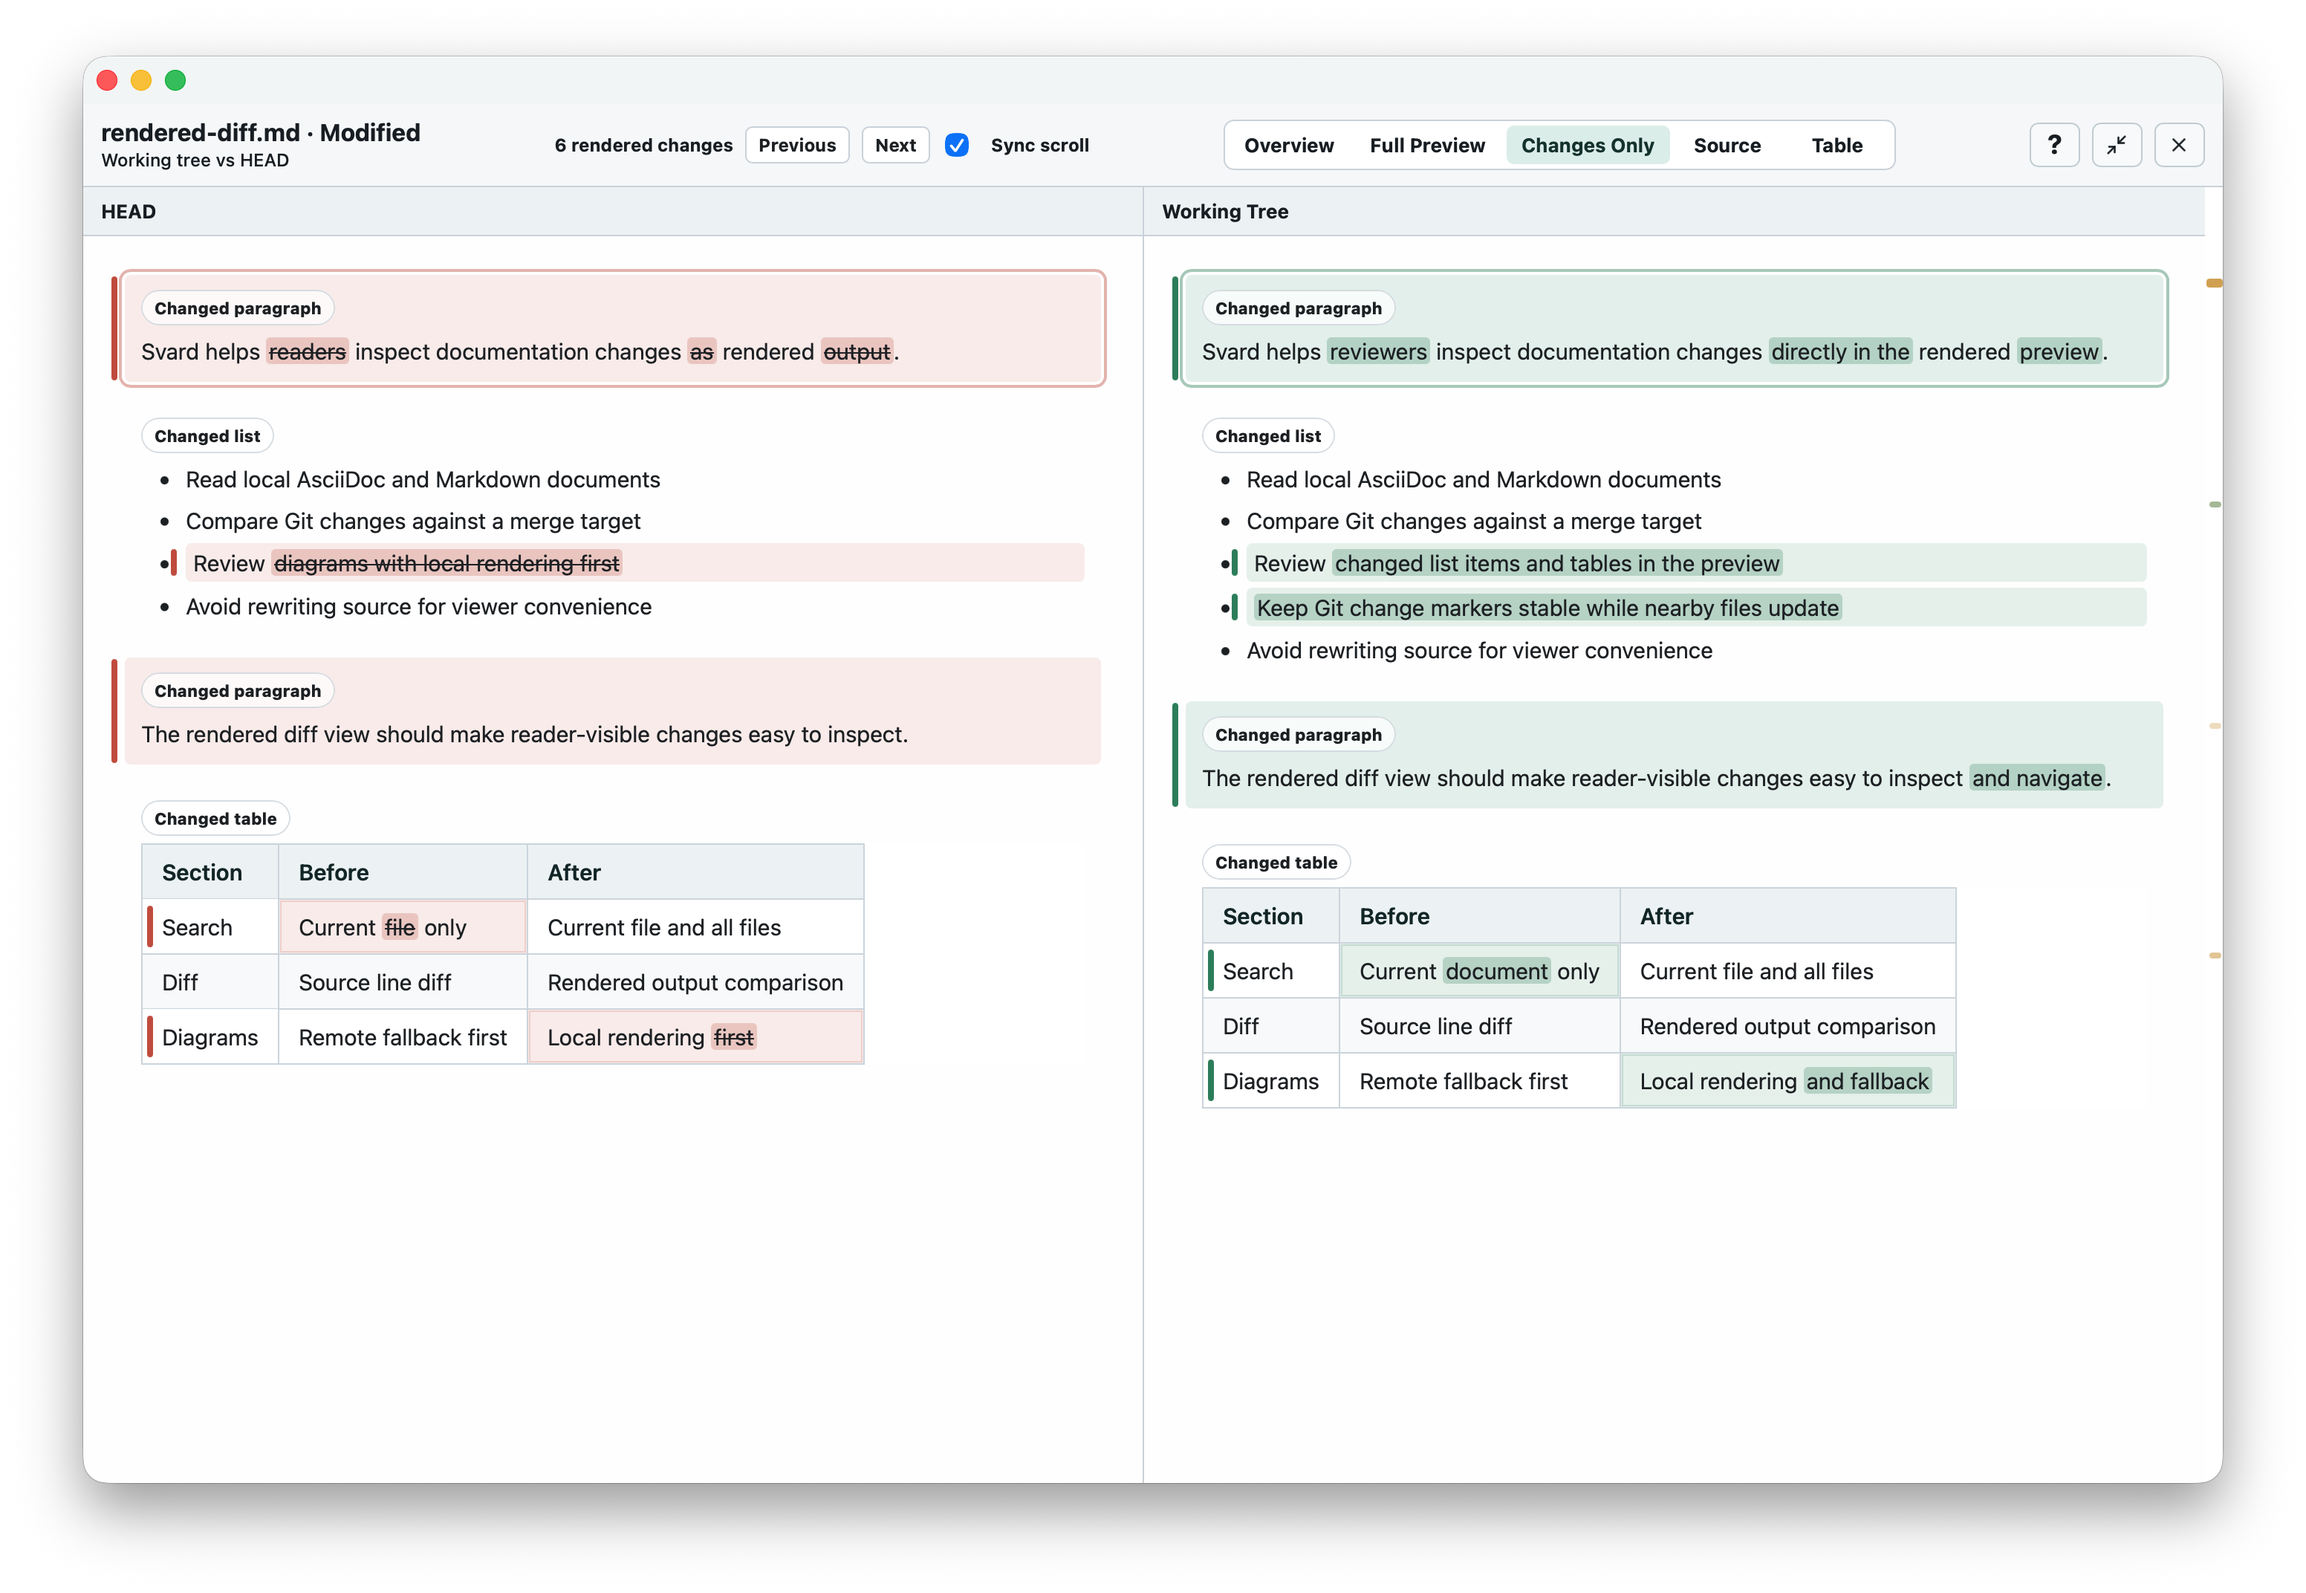
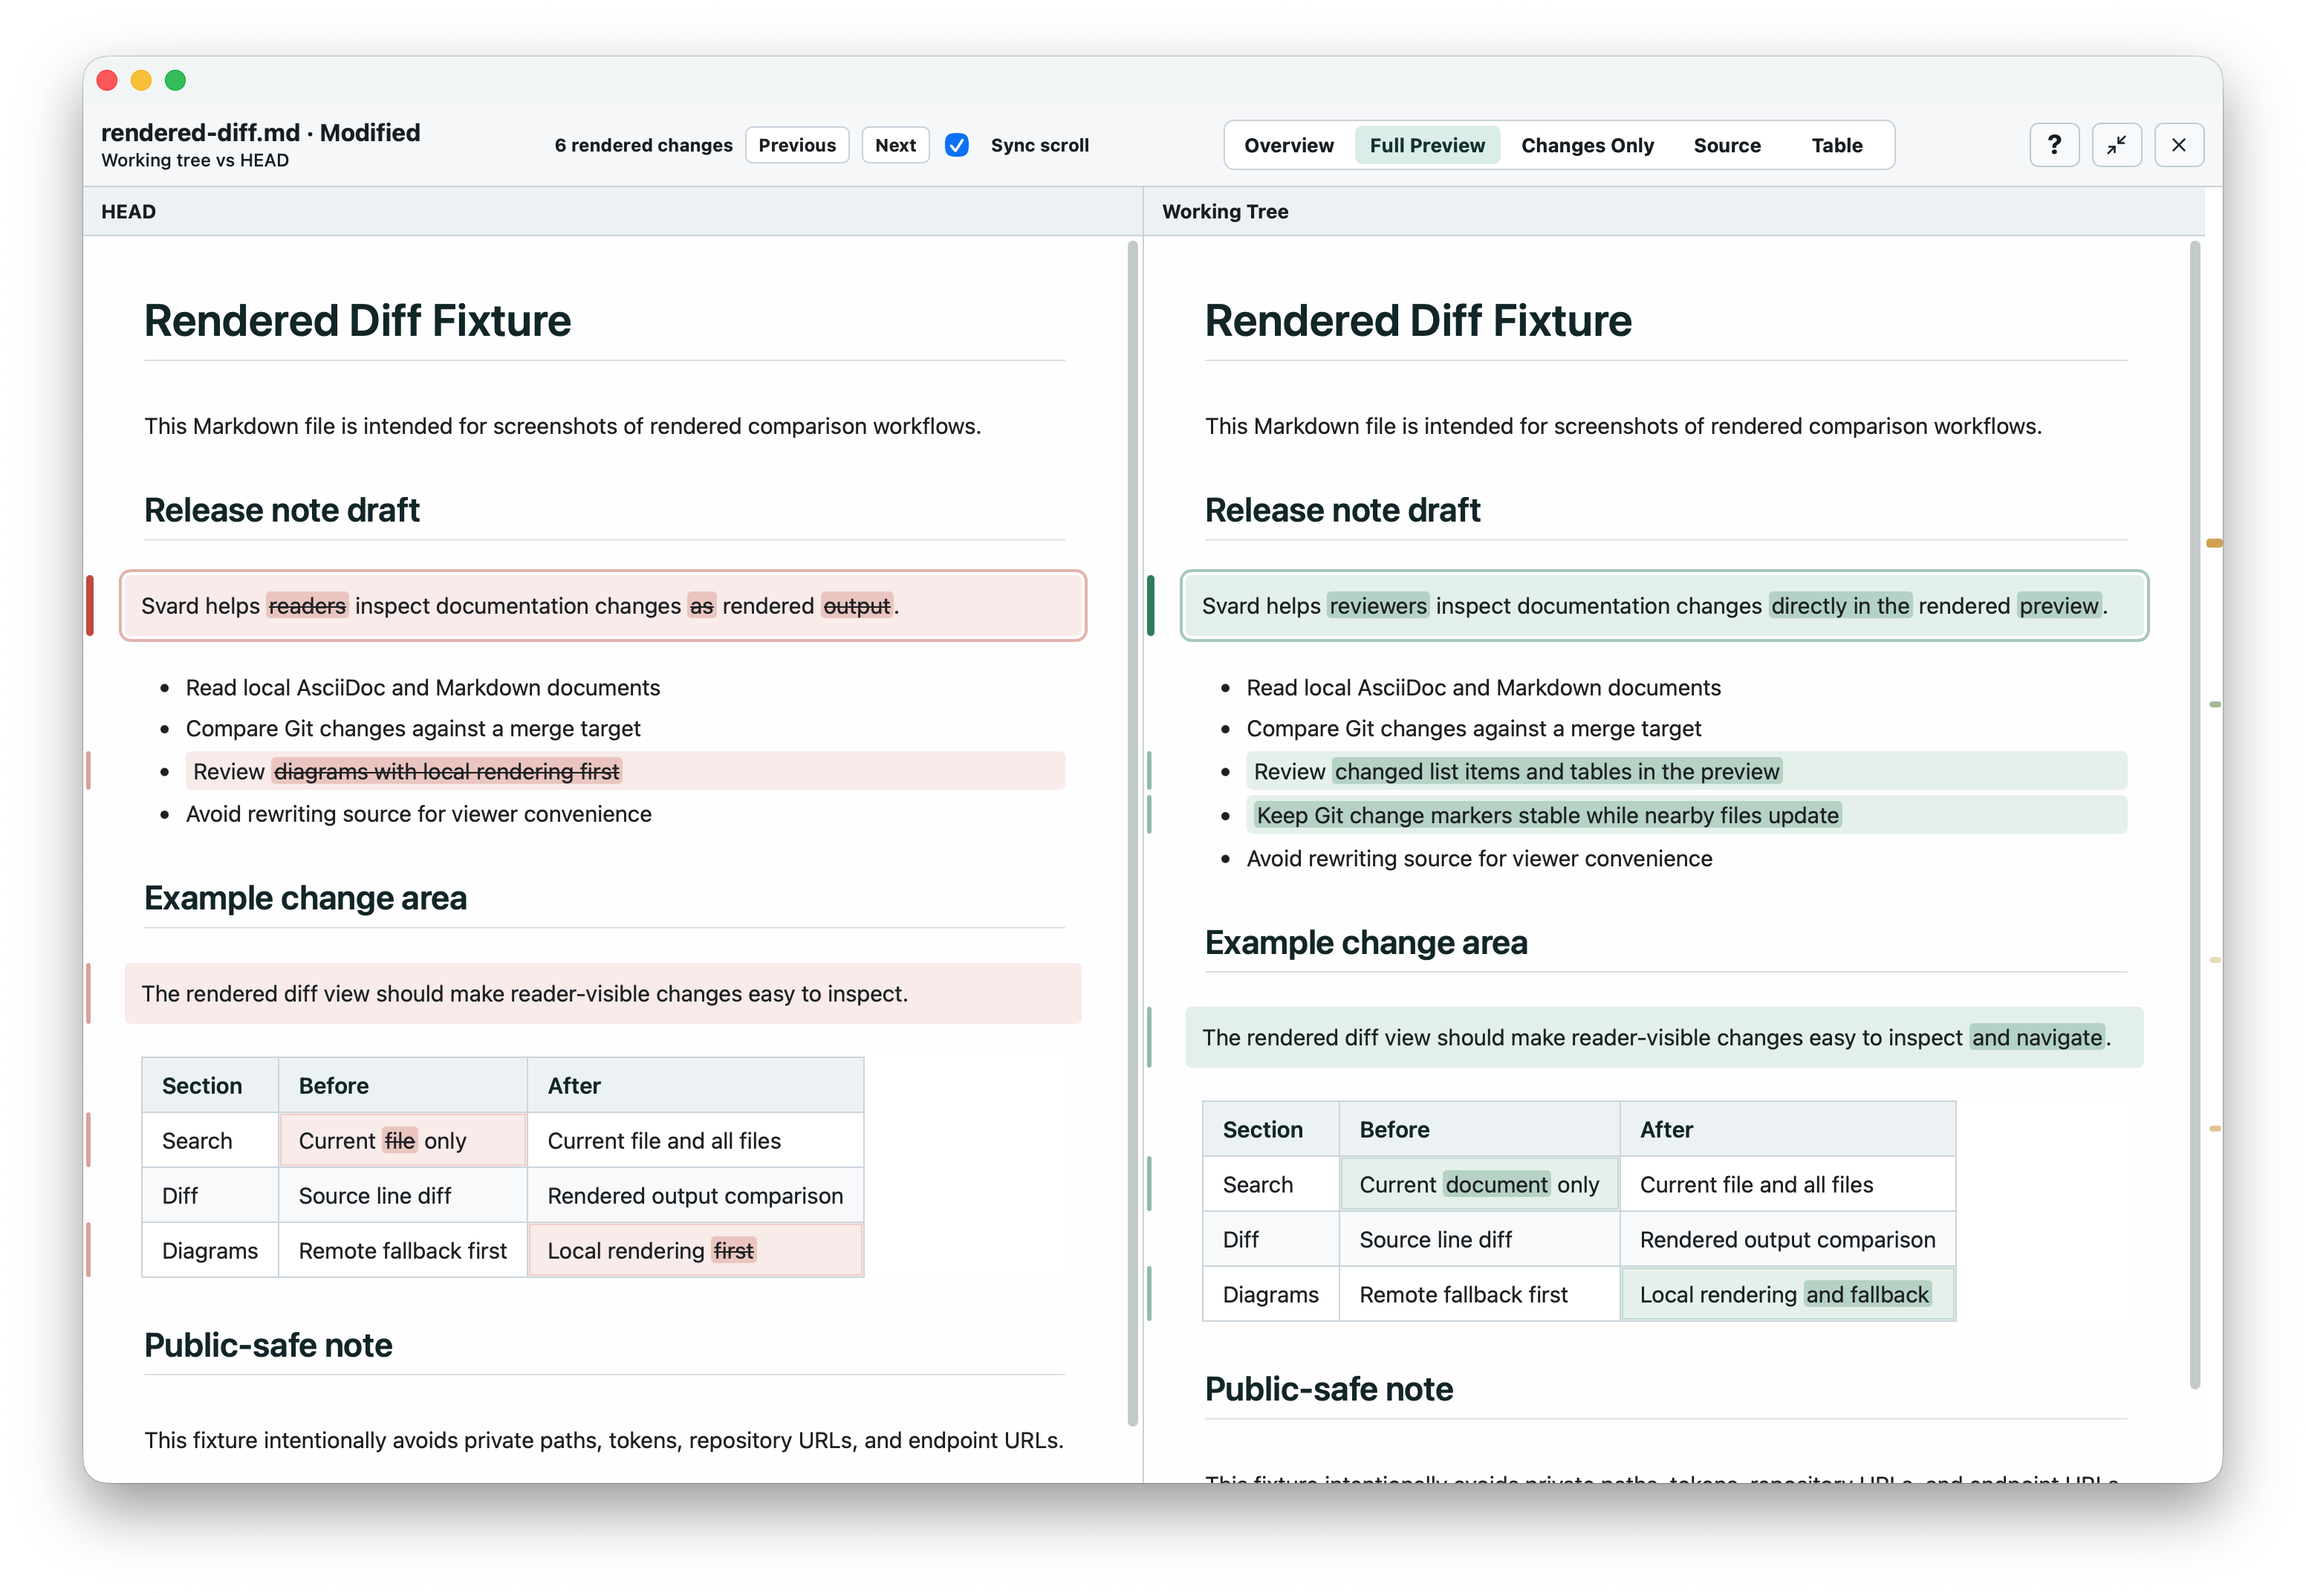
docs(site): show Full Preview in the rendered diff hero image

Changed region(s): [[0.4688, 0.1562, 0.9688, 0.9062], [0.0312, 0.1875, 0.4062, 0.875], [0.5938, 0.0625, 0.7188, 0.125]]

diff --git a/src/ui/hooks/siteScreenshotScenario/diagramAndReviewScenarios.ts b/src/ui/hooks/siteScreenshotScenario/diagramAndReviewScenarios.ts
@@ -21,7 +21,19 @@ export async function runDiagramAndReviewScenarios(
     showGitDiff,
   } = context;
 
-  if (scenario === "rendered-diff" || scenario === "table-list-diff-review") {
+  if (scenario === "rendered-diff") {
+    await showGitDiff(fixturePath);
+    window.setTimeout(() => {
+      document
+        .querySelector<HTMLButtonElement>(
+          '[data-review-id="git-diff-full-preview-view"]',
+        )
+        ?.click();
+    }, 300);
+    return true;
+  }
+
+  if (scenario === "table-list-diff-review") {
     await showGitDiff(fixturePath);
     window.setTimeout(() => {
       document
